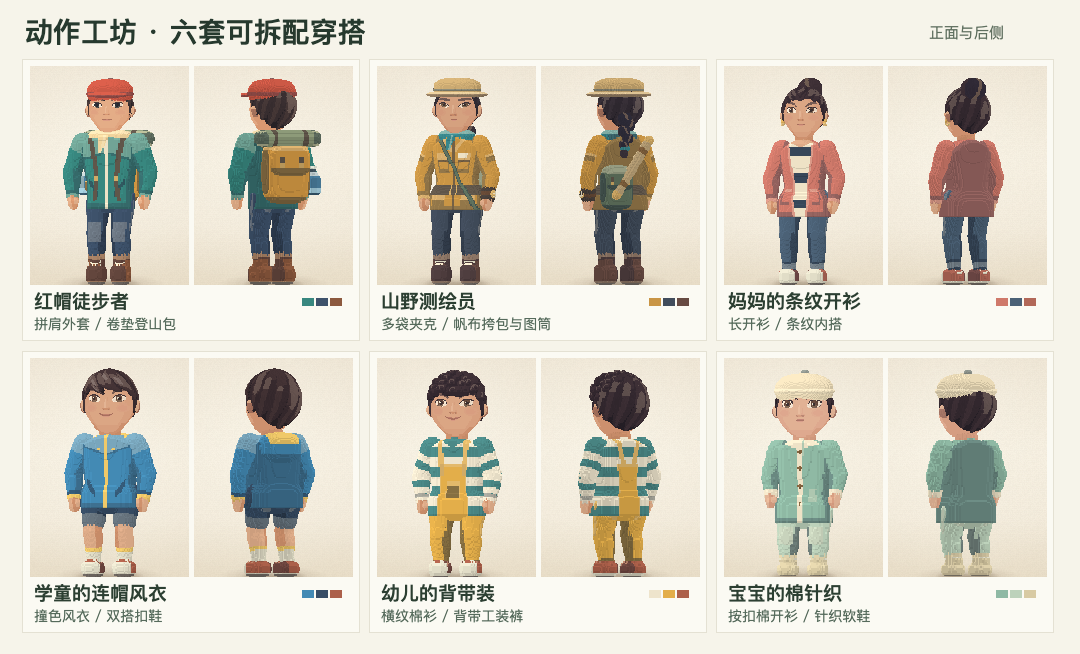
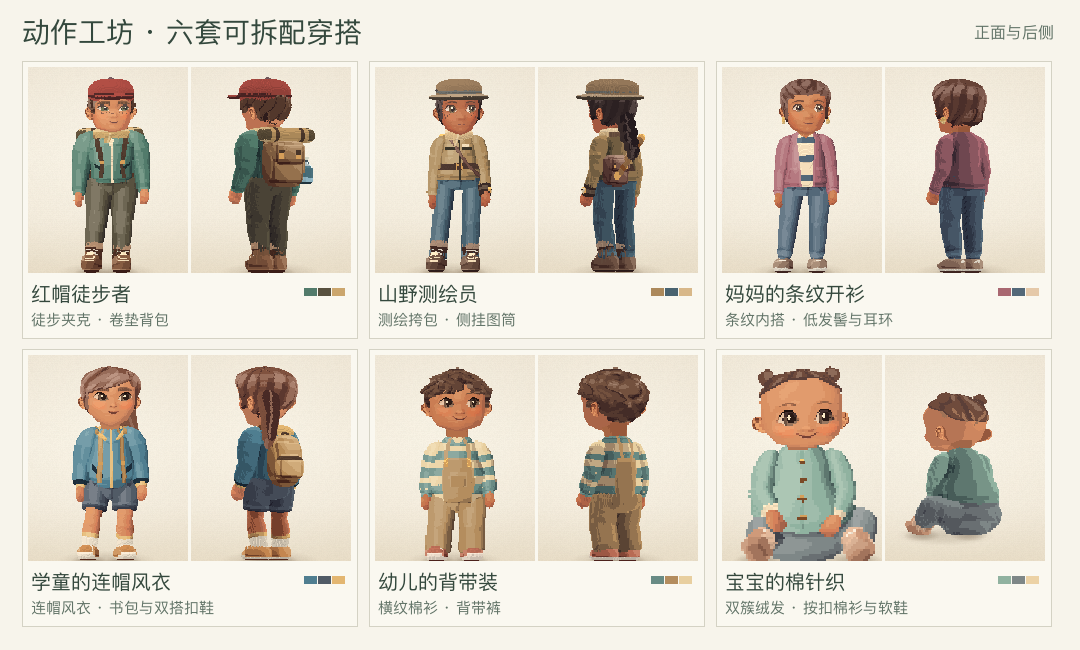
Refine the six original workshop actors across ages and poses

diff --git a/character-collection.js b/character-collection.js
@@ -103,18 +103,54 @@ const pineCharacterCollection = (() => {
       wear:{top:'tee',bottom:'trousers',shoes:'canvas-shoes'}, traits:{mouth:'relaxed'}},
     body_male: {head:'harbor',build:'even',hair:'crew', palette:palette('copper','espresso','umber','64857c','465563','89684c','d5bf93'),
       wear:{top:'tee',bottom:'trousers',shoes:'canvas-shoes'}, traits:{nose:'straight'}},
-    workshop_hiker: {head:'hearth',build:'sturdy',hair:'quiff', palette:palette('gold','walnut','moss','457567','58513f','865c42','e3ad5f'),
-      traits:{complexion:'sunspots',mouth:'relaxed'}, dyes:{hat:'#ae5344',bag:'#a57646',attachment:'#c29b66',bottle:'#517b88'}},
-    workshop_surveyor: {head:'reed',build:'tall',hair:'fishtail', palette:palette('copper','espresso','hazel','b08c4e','475c66','6d5142','d9c087'),
-      traits:{brows:'straight',complexion:'freckles'}, dyes:{hat:'#977a55',bag:'#735146',attachment:'#9a7049'}},
-    workshop_mother: {head:'fig',build:'soft',hair:'half-up', palette:palette('amber','chestnut','umber','aa5f68','536878','947865','e3bb9a'),
-      traits:{eyes:'soft-oval',complexion:'smile-lines'}, dyes:{ears:'#d9ac64'}},
-    workshop_child: {head:'sprig',build:'growing',hair:'pixie', palette:palette('gold','chestnut','umber','497b92','545964','c4864f','e5af64'),
-      wear:{bag:'school-pack'}, traits:{eyes:'almond',mouth:'bow'}, dyes:{bag:'#b68b57'}},
-    workshop_toddler: {head:'pip',build:'small',hair:'curly', palette:palette('amber','walnut','umber','678c86','c39459','b86b54','f2dbac'),
-      traits:{eyes:'round',mouth:'relaxed'}, sculpt:{height:.99,chinRoundness:.48}},
-    workshop_baby: {head:'clover',build:'small',hair:'crew', palette:palette('gold','fawn','umber','93bcb6','677f80','c4886d','f1d9b4'),
-      wear:{hat:'none'}, sculpt:{height:.96,chinProjection:.08}},
+    workshop_hiker: {
+      head:'hearth', build:'sturdy', hair:'crop', fit:{top:'straight',legs:'tapered'},
+      palette:palette('gold','walnut','moss','527b6b','58513f','865c42','cba66d'),
+      traits:{eyes:'almond',nose:'short',mouth:'lower-full',complexion:'sunspots',formMix:.78},
+      sculpt:{faceWidth:1.005,chinHeight:-.10,chinProjection:.09,chinRoundness:.35,noseBridge:-.13,
+        noseLipSpacing:1.19,lipProjection:-.03,mouthWidth:-.05},
+      dyes:{hat:'#a44940',bag:'#95714d',attachment:'#c29b66',bottle:'#517b88',brow:'#6d503c',lip:'#ac705b'}
+    },
+    workshop_surveyor: {
+      head:'reed', build:'tall', hair:'fishtail', fit:{top:'straight',legs:'straight'},
+      palette:palette('copper','espresso','hazel','ac895b','496370','6d5142','d8b889'),
+      traits:{form:'balanced',formMix:.83,brows:'fine',nose:'rounded',mouth:'relaxed',complexion:'freckles',restExpression:'curious'},
+      sculpt:{faceWidth:.99,jaw:.985,eyeSpacing:1.015,eyeOpening:.10,cheekHeight:-.19,chinHeight:-.13,
+        chinRoundness:.36,lipProjection:-.02,noseBridge:-.13,noseWidth:.08,noseLipSpacing:1.20},
+      dyes:{hat:'#947759',bag:'#735146',attachment:'#9a7049',eyes:'#5b4e38',brow:'#654a3e',lip:'#9f6253'}
+    },
+    workshop_mother: {
+      head:'fig', build:'soft', hair:'low-bun', fit:{top:'straight',legs:'tapered'},
+      palette:palette('amber','chestnut','umber','a96871','536878','947865','e5c9a9'),
+      traits:{eyes:'soft-oval',brows:'fine',mouth:'soft-smile',complexion:'left-mole'},
+      sculpt:{faceWidth:.99,eyeSpacing:1.005,eyeOpening:.10,browHeight:.09,cheekFullness:-.04,
+        chinHeight:-.07,chinProjection:.09,chinRoundness:.34,noseBridge:-.13,noseLipSpacing:1.20,lipProjection:-.03},
+      dyes:{hair:'#674337',brow:'#755041',lip:'#ac6b59',ears:'#d9ac64'}
+    },
+    workshop_child: {
+      head:'sprig', build:'growing', hair:'side-pony', fit:{top:'bloused',legs:'straight'},
+      palette:palette('gold','chestnut','umber','4f7e90','515b66','c4864f','e3b671'),
+      wear:{bag:'school-pack'}, traits:{eyes:'almond',brows:'feathered',mouth:'bow',formMix:.79},
+      sculpt:{faceWidth:1,jaw:.985,eyeSpacing:1.005,eyeOpening:.14,cheekHeight:-.18,chinHeight:-.13,
+        chinProjection:.11,chinRoundness:.46,noseLipSpacing:1.14,lipProjection:.01},
+      dyes:{hair:'#80523f',brow:'#795340',lip:'#b87761',bag:'#b68b57'}
+    },
+    workshop_toddler: {
+      head:'pip', build:'small', hair:'side-part',
+      palette:palette('amber','walnut','umber','688b84','b48d5e','b86b54','e8cf9f'),
+      traits:{eyes:'round',brows:'fine',nose:'rounded',mouth:'smile',restExpression:'warm',formMix:.72},
+      sculpt:{height:.99,jaw:.99,eyeSpacing:1.02,eyeWidth:-.06,eyeOpening:.10,cheekFullness:.04,cheekHeight:-.22,
+        chinHeight:-.09,chinProjection:.09,chinRoundness:.49,crownHeight:.88,noseLipSpacing:1.05,lipProjection:.02},
+      dyes:{hair:'#73513e',brow:'#775740',lip:'#b47a64'}
+    },
+    workshop_baby: {
+      head:'clover', build:'small', hair:'baby-puffs',
+      palette:palette('gold','walnut','umber','90b2a0','7e8787','bf8e71','ecd2a5'),
+      wear:{hat:'none'}, traits:{eyes:'soft-oval',brows:'fine',mouth:'soft-smile',restExpression:'warm'},
+      sculpt:{height:.96,faceWidth:1,jaw:.98,crownHeight:.85,eyeWidth:-.09,eyeOpening:.02,browHeight:.07,
+        mouthWidth:-.05,lipProjection:.07,chinProjection:.18,chinRoundness:.57},
+      dyes:{hair:'#654337',eyes:'#50392f',lip:'#ba7864'}
+    },
     chestnut: {head:'acorn',build:'baby',hair:'curly', palette:palette('bronze','espresso','espresso','527e79','746958','bc9669','b9c6a2'),
       wear:{top:'snap-knit'}, traits:{eyes:'doe-eye'}, dyes:{hat:'#e3cba7'}, sculpt:{chinProjection:.10}},
     hazel: {head:'almond',build:'lean',hair:'top-knot', palette:palette('amber','silver','umber','527b73','634756','966d4f','d7b47b'),

diff --git a/appearance-standard.html b/appearance-standard.html
@@ -76,7 +76,7 @@
           <a href="packs/maple-child.json">枫林信使 JSON</a> ·
           <a href="packs/chorus-child.json">双马尾合唱队员</a> ·
           <a href="packs/relay-child.json">单马尾接力跑手</a> ·
-          <a href="packs/workshop-surveyor.json">测绘员整套衣装和随身物</a> ·
+          <a href="packs/workshop-surveyor-current.json">当前工坊测绘员与随身物</a> ·
           <a href="packs/female-adult.json">女性体型样本</a> ·
           <a href="packs/male-adult.json">男性体型样本</a> ·
           <a href="character-v1.schema.json">角色 JSON Schema</a>
@@ -437,7 +437,7 @@ PineWardrobe.save(portrait);</code></pre>
           卸下随身物时省略对应的部位字段，其染色可以保留。上衣、下装与鞋沿用必填字段，背带裤的胸兜和背带由下装绘制。
           运行时可从 <code>PineLooks.slots</code> 和 <code>PineLooks.wearables</code> 读取合法款式，用
           <code>PineLooks.applyOutfit(recipe, PineLooks.workshopOutfits.surveyor)</code> 修改草稿，再调用 <code>PineLooks.prepare</code> 或 <code>PineLooks.build</code>。
-          <a href="packs/workshop-surveyor.json">完整示例</a> · <a href="character-v1.schema.json">字段与取值</a>
+          <a href="packs/workshop-surveyor.json">1.7.0 测绘员示例</a> · <a href="character-v1.schema.json">字段与取值</a>
         </p>
         <h2 id="collection">基础部件 1.8.0 的外观目录</h2>
         <p>

diff --git a/appearance.js b/appearance.js
@@ -1578,7 +1578,8 @@ SOFTWARE.`;
       ratios.headScale = Math.round((ratios.headScale + .09) * 100) / 100;
       ratios.noseLipSpacing = Math.round((ratios.noseLipSpacing - .10) * 100) / 100;
     } else if (doc.base === 'child') ratios.headScale = Math.round((ratios.headScale + .05) * 100) / 100;
-    Object.assign(doc.shape,ratios);
+    // Actors can have individually drawn crown heights and nose-to-lip spacing.
+    for (const [key, value] of Object.entries(ratios)) doc.shape[key] ??= value;
     return doc;
   });
   const templateById = new Map(templates.map((doc) => [doc.id, doc]));

diff --git a/README.md b/README.md
@@ -213,7 +213,9 @@ python3 -m http.server 8000 --bind 127.0.0.1
 
 ## 试穿动作工坊的衣服
 
-在动作工坊选一位演员，点「编辑穿搭」，或在创作室打开「穿搭」。点套装可以给当前人物整套换装，也能单独挑夹克、背带裤、鞋帽和背包。在「配色」里可以分别染上衣、裤子、鞋、包、镜框和水壶。[试穿山野测绘员](http://127.0.0.1:8000/atelier.html?preset=look_workshop_surveyor&tab=wear&bearing=30) · [完整角色 JSON](packs/workshop-surveyor.json)
+最早的六位工坊演员各有一份可编辑的造型。红帽徒步者戴砖红色帽子，测绘员留鱼骨辫，妈妈梳低发髻。穿蓝风衣的学童扎侧马尾，背带裤幼儿留偏分短发，坐姿宝宝头顶有两簇小绒团。家庭编排里可以看到妈妈抱起这个宝宝。[六位演员的正侧面对照与动作](studies/pixel-structure/workshop-cast.webp) · [播放妈妈轻摇宝宝](studio.html?actor=mother&action=cradle&partner=baby&play=1)
+
+在动作工坊选一位演员，点「编辑穿搭」，或在创作室打开「穿搭」。点套装可以给当前人物整套换装，也能单独挑夹克、背带裤、鞋帽和背包。在「配色」里可以分别染上衣、裤子、鞋、包、镜框和水壶。[试穿山野测绘员](atelier.html?preset=look_workshop_surveyor&tab=wear&bearing=30) · [下载当前测绘员配方](packs/workshop-surveyor-current.json)
 
 ![六套工坊穿搭的正面和后侧，展示外套、裤装、鞋帽、背包与外挂](workshop-wardrobe-preview.png)
 
